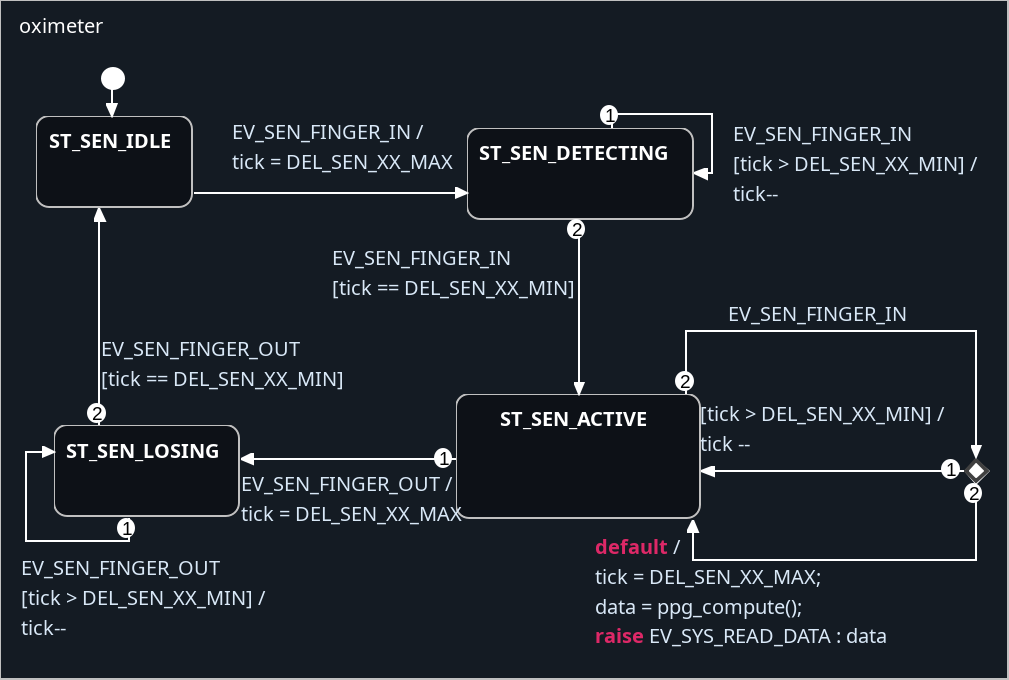
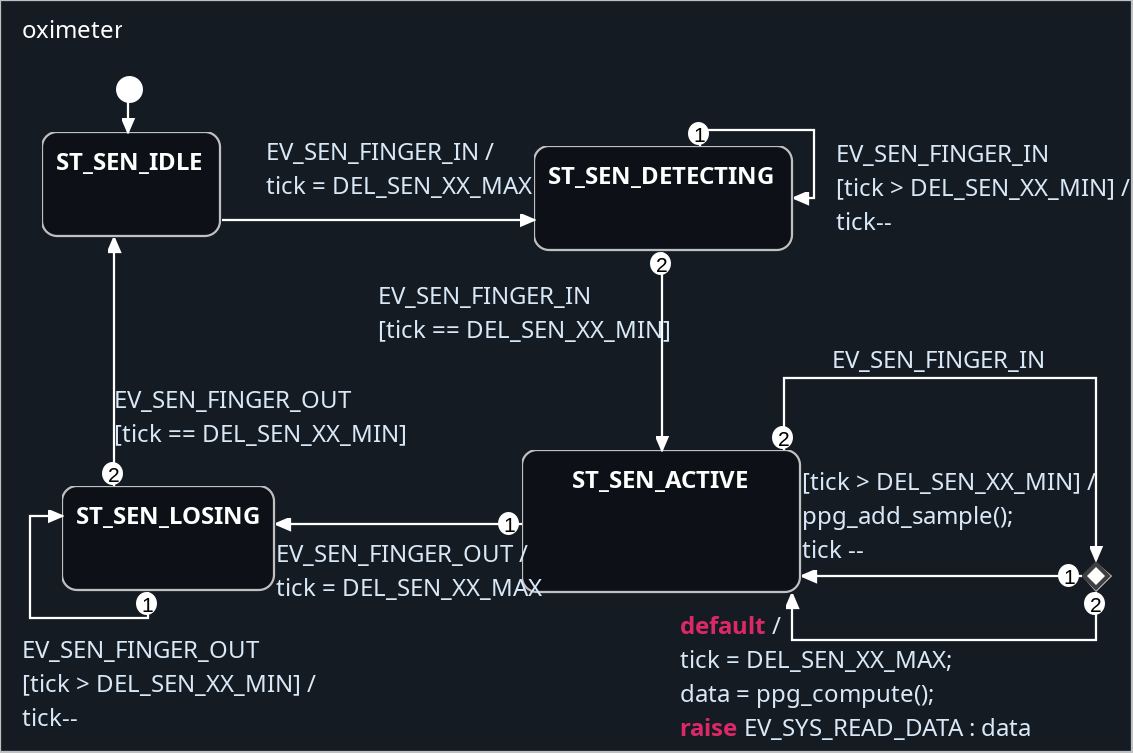
docs: update firmware

diff --git a/informe/main.md b/informe/main.md
@@ -39,7 +39,7 @@ Tomás Musso Carboni
 `tmusso@fi.uba.ar`
 
 Alan Romero
-`alan@fi.uba.ar`
+`alromero@fi.uba.ar`
 
 Santiago Archetti  
 `sarchetti@fi.uba.ar`
@@ -687,9 +687,7 @@ A nivel de implementación, la **Figura 3.4** ilustra la organización de los ar
 
 ### 3.2.2 Módulo Sensor
 
-Este módulo representa un sensor que se comunica con un oxímetro de
-pulso (*MAX30102*) y procesa la señal para obtener los datos en la
-siguiente estructura de datos.
+Este módulo representa un sensor que se comunica con un oxímetro de pulso (*MAX30102*), procesa la señal y guarda los valores obtenidos en la siguiente estructura de datos.
 
 ```C
         typedef struct {
@@ -701,12 +699,6 @@ siguiente estructura de datos.
         } task_sensor_results_dta_t;
 ```
 
-La comunicación se realiza via $I^2C$ y en cada iteración se acceden los
-datos al buffer FIFO del MAX30102 para reconstruir la señal. Una vez
-procesada, cada `DEL_SEN_MAX_TICKS` se accede a la interfaz del sistema
-y se actualiza la estructura de datos, además de activar una variable
-booleana indicando que el valor no ha sido leído.
-
 
 <p align="center">
   <img src="img/statechart_sensor.png" width="50%" alt="Máquina de estados del sensor">
@@ -715,21 +707,25 @@ booleana indicando que el valor no ha sido leído.
   <em>Figura 3.6: Máquina de estados del sensor.</em>
 </p>
 
-Inicialmente el sistema comienza en el estado `ST_SEN_IDLE`, en el cual el sensor se encuentra en resposo esperando que el usuario coloque el dedo sobbre el sensór. Cuando se detecta la presencia del dedo, se genera el evento `EV_SEN_FINGER_IN`, esto provoca la transición al estado `ST_SEN_DETECTING`, en este estado se inicia un tick que permite verificar que la señal del sensor sea estable antes de comenzar a medir. 
+El sistema comienza en el estado `ST_SEN_IDLE`.
+En éste, el sensor se encuentra leyendo datos, y hasta no superar un umbral, se interpreta como la ausencia del dedo en el sensor.
+Cuando el usuario coloca el dedo, la lectura supera el umbral y se genera el evento `EV_SEN_FINGER_IN`.
 
-Mientras el sistema permanece en `ST_SEN_DETECTING`, el temporizador se va decrementando. Si el dedo permanece colocado el tiempo mínimo requerido `DEL_SEN_XX_MIN`, el sistema pasa al estado `ST_SEN_ACTIVE`. En este estado el sensor realiza el procesamiento de la señal PPG con la función `ppg_compute()`. 
+De forma similar al debouncing de un pulsador mecánico, se asegura que el dedo haya estado al menos cierta cantidad de ticks para confirmar que todas las lecturas corresponden a un usuario y no a ruido.
+Para esto, se utilizan los estados intermedios `ST_SEN_DETECTING` y `ST_SEN_LOSING`.
+En estos estados se asigna `DEL_SEN_XX_MAX` a la variable `tick` al entrar.
+Mientras el sistema permanece en `ST_SEN_DETECTING`, el temporizador se va decrementando.
+Si el dedo permanece colocado el tiempo mínimo requerido `DEL_SEN_XX_MIN`, el sistema pasa al estado `ST_SEN_ACTIVE` o `ST_SEN_IDLE` según desde cual transicione.
 
-Si durante el funcionamiento el usuario retira el dedo del sensor, se genera el evento `EV_SEN_FINGER_OUT`, provocando una transición al estado `ST_SEN_LOSING`. Si el dedo permanece fuera del sensor durante un tiempo establecido, el sistema vuelve a `ST_SEN_IDLE`, a la espera de una nueva medición.
+El estado `ST_SEN_ACTIVE` el sensor realiza las lecturas y ejecuta el procesamiento de la señal PPG con la función `ppg_compute()`.
+La comunicación se realiza via $I^2C$ y en cada iteración se acceden los datos al buffer FIFO del MAX30102 para reconstruir la señal.
+Una vez procesada, cada `DEL_SEN_MAX_TICKS` se accede a la interfaz del sistema y se actualiza la estructura de datos.
+Además, activa una variable booleana indicando que el valor no ha sido leído.
+De esta manera, _task_system_ puede hacer polling sin repetir el mismo dato.
 
 ---
 
 ### 3.2.3 Módulo Actuador
-
-Consiste en los indicadores al usuario. Consta de 4 estados. Pueden
-estar prendidos, apagados, parpadeando o emtiendo un pulso. Éstos
-últimos permiten ajustar la frecuencia con la que un led parpadea, o la
-frecuencia de un buzzer.
-
 
 <p align="center">
   <img src="img/statechart_actuator.png" width="45%" alt="Máquina de estados del actuador">
@@ -738,24 +734,45 @@ frecuencia de un buzzer.
   <em>Figura 3.8. Máquina de estados del actuador.</em>
 </p>
 
-La función principal de esta máquina de estados es controlar el comportamiento de los periféricos de salida del sistema (como los indicadores LED y el buzzer), permitiendo operarlos de forma estática (encendido/apagado) o dinámica (parpadeo/pulsos).
+Cada actuador cuenta con un identificador único representado con el siguiente enumerativo.
 
-El sistema comienza por defecto en el estado `ST_ACT_XX_OFF`, lo cual representa que el actuador se encuentra completamente desactivado. Desde este punto, si se recibe el evento `EV_ACT_XX_ON`, la máquina transiciona al estado `ST_ACT_XX_ON`, activando el hardware de forma continua. Para volver a apagarlo, basta con generar el evento `EV_ACT_XX_OFF`, retornando al estado inicial.
+```C
+/* Identifier of Task Actuator */
+typedef enum {
+    ID_LED_BLUETOOTH,
+    ID_LED_KID,
+    ID_LED_ADULT,
+    ID_LED_ALARM,
+    ID_BUZZER
+} task_actuator_id_t;
+```
 
-Además de los estados estáticos, el sistema puede ingresar a un modo intermitente a través del evento `EV_ACT_XX_BLINK`, el cual provoca la transición hacia el estado complejo `ST_ACT_XX_BLINK`. A este estado se puede ingresar tanto desde el actuador apagado como desde el actuador encendido.
+De esta forma _task_actuator_ gestiona todos los actuadores del sistema con salidas simples (prendido, apagado o parpadeando).
+En cada tick, éste itera sobre un arreglo de actuadores y actualiza el estado de cada uno según el evento que haya registrado cada uno.
+Con una interfaz que evita exponer la implementación del conjunto de actuadores, _task_system_ puede asignarle un evento _ON_, _OFF_, o _BLINK_ pasandole el evento y el ID a la función
 
-Dentro de `ST_ACT_XX_BLINK`, el sistema gestiona una sub-máquina con dos sub-estados internos (`ON` y `OFF`). El paso de un sub-estado a otro está regido por un temporizador interno (`tick`). En cada iteración, el temporizador se decrementa continuo (`tick--`). 
+```C
+void put_event_task_actuator(task_actuator_ev_t event, task_actuator_id_t identifier);
+```
 
-Cuando la variable alcanza su límite inferior (`[tick == DEL_BTN_XX_MIN]`), el actuador invierte su estado (pasando de `ON` a `OFF` o viceversa) y el temporizador se recarga automáticamente a su valor superior (`tick = DEL_BTN_XX_MAX`). Este ciclo se repite indefinidamente, generando la frecuencia de parpadeo deseada.
+La función principal de cada actuador individual es controlar el comportamiento de los periféricos de salida del sistema (como los indicadores LED y el buzzer).
 
+El sistema comienza por defecto en el estado `ST_ACT_XX_OFF`, lo cual representa que el actuador se encuentra completamente desactivado.
+Desde este punto, si se recibe el evento `EV_ACT_XX_ON`, la máquina transiciona al estado `ST_ACT_XX_ON`, activando el hardware de forma continua.
+Para volver a apagarlo, basta con generar el evento `EV_ACT_XX_OFF`, retornando al estado inicial.
+
+Además de los estados estáticos, el sistema puede ingresar a un modo intermitente desencadenada por el evento `EV_ACT_XX_BLINK`.
+Para modelar el parpadeo, se utilizan los estados `ST_ACT_BLINK_ON` y `ST_ACT_BLINK_OFF`.
+
+Aunque el diagrama lo representa como un estado compuesto, el código lo modela como estados independientes entre los que se va alternando.
+El paso de un sub-estado a otro está determinado por un temporizador interno (`tick`).
+En cada iteración, el temporizador se decrementa continuo (`tick--`).
+Cuando la variable alcanza su límite inferior (`[tick == DEL_BTN_XX_MIN]`), el actuador invierte su estado (pasando de `ON` a `OFF` o viceversa) y el temporizador se setea automáticamente a su cota superior (`tick = DEL_BTN_XX_MAX`).
+Este ciclo se repite indefinidamente, generando la frecuencia de parpadeo deseada.
 El actuador permanecerá en este ciclo de intermitencia hasta que reciba una orden explícita para detenerse: el evento `EV_ACT_XX_OFF` lo llevará nuevamente al estado de reposo, mientras que `EV_ACT_XX_ON` lo dejará encendido de manera permanente.
 
-### 3.2.4 Módulo de botones
 
-Modela el comportamiento de un pulsador mecanico. Permite filtrar por
-software el ruido durante los cambios de estado del botón
-(_debouncing_). Aunque el botón es mecánico, se puede modelar otras
-entradas digitales con ruido de la misma manera.
+### 3.2.4 Módulo Botones
 
 <p align="center">
   <img src="img/statechart_button.png" width="55%" alt="Máquina de estados de los botones">
@@ -764,31 +781,25 @@ entradas digitales con ruido de la misma manera.
   <em>Figura 3.7: Máquina de estados de los botones.</em>
 </p>
 
-La función principal de esta máquina de estados es detectar de forma segura la presión y liberación de los botones evitando lecturas incorrectas por rebotes mecánicos. 
+La función principal de esta máquina de estados es detectar de forma segura la presión y liberación de los botones evitando lecturas incorrectas por rebotes mecánicos.
 
-El sistema comienza en estado `ST_BTN_XX_UP`, el cual representa la condición en la cual el botón se encuentra sin presionar. Cuando se detecta una transición del botón hacia el estado presionado(`EV_BTN_XX_DOWN`), EL SISTEMA PASA AL ESTADO `ST_BTN_XX_FALLING` e inicia un tick. Dicho estado se utiliza para verificar que la presión del botón sea estable y no corresponda a un rebote. 
+El sistema comienza en estado `ST_BTN_XX_UP`, el cual representa la condición en la cual el botón se encuentra sin presionar.
+Cuando se detecta una transición del botón hacia el estado presionado(`EV_BTN_XX_DOWN`), EL SISTEMA PASA AL ESTADO `ST_BTN_XX_FALLING` e inicia un tick.
+Dicho estado se utiliza para verificar que la presión del botón sea estable y no corresponda a un rebote.
 
-Mientras el sistema permanece en `ST_BTN-XX_FALLING`, el temporizador se decrementa, si continua presionado durante un tiempo mínimo se considera que la presión fue válida y el sistema pasa a `ST_BTN-XX_DOWN`. En ese momento se genera el evento `EV_SYS_BTN_XX_PRESSED`, que es enviado al sistema principal para indicar que el botón fue efectivamente presionado.
+Mientras el sistema permanece en `ST_BTN-XX_FALLING`, el temporizador se decrementa, si continua presionado durante un tiempo mínimo se considera que la presión fue válida y el sistema pasa a `ST_BTN-XX_DOWN`.
+En ese momento se genera el evento `EV_SYS_BTN_XX_PRESSED`, que es enviado al sistema principal para indicar que el botón fue efectivamente presionado.
 
 Cuando el usuario libera el botón (`EV_BTN_XX_UP`), el sistema pasa al estado `ST_BTN_XX_RISING`, donde nuevamente se utiliza el temporizador para confirmar que la liberación del botón sea estable.
 
 Si el botón permanece liberado durante el tiempo mínimo establecido, el sistema retorna al estado `ST_BTN_XX_UP` y se genera el evento `EV_SYS_BTN_XX_RELEASED`, indicando al sistema que el botón fue liberado correctamente.
 
+<!-- Esta forma de filtrar el ruido producido por el funcionamiento mecánico del pulsador, puede ser usado en otro tipo de entradas como el pin STATE del HM10, que indica si un dispositivo ya está conectado a bluetooth -->
+
 ---
 
 
-### 3.2.5 Módulo de sistema
-
-Es la tarea principal encargada de recibir las entradas desde los
-botones y sensores y producir los efectos correspondientes en los otros
-módulos. Como es relevante no perder ninguna entrada, cuenta con una
-interfaz que gestiona una cola de eventos. Ésta, además, es donde el
-sensor guarda los datos que toma cada cierta cantidad de ticks. En cada
-iteración, el sistema pregunta a la cola si hay algun evento disponible
-y si hay algun dato para enviar. En caso de haber un dato disponible del
-sensor, lo envía por UART al HM10, que se encarga de transmitirlo por
-bluetooth, y se muestra por el display
-
+### 3.2.5 Módulo Sistema
 
 <p align="center">
   <img src="img/statechart_system.png" width="50%" alt="Máquina de estados del sistema">
@@ -797,17 +808,43 @@ bluetooth, y se muestra por el display
   <em>Figura 3.5: Máquina de estados del sistema.</em>
 </p>
 
-Como se puede observar en la maquina de estados del sistema, el mismo se encarga de controlar el funcionamiento general del dispositivo. Se gestionan el modo modo de funcionamiento como también la lectura de sensores y encendido o apagado de alarmas. 
+Se observa en la figura 3.5, que _task_system_ se encarga de controlar el funcionamiento general del dispositivo.
+Gestiona el modo de funcionamiento, la lectura de sensores, la persentación de la información, y el encendido o apagado de la alarma.
 
-Cuenta con dos modos de funcionamiento: `KID` y `ADULT`, los cuales se seleccionan mediante el evento `AV_SYS_BTN_MODE_PRESSED`, correspondiente a la presión del botón de modo. Por default el sistema se inicializa en modo `KID`. El cambio de modo viene acompañado por el encendido del led correspondiente (`ID_LED_KID` O `ID_LED_ADULT` según el caso) asi como también del seteo de los parámetros correspondientes a ese modo. 
+Cuenta con dos modos de funcionamiento: `KID` y `ADULT`, entre los cuales se alterna mediante un pulsador que desencadena el evento `EV_SYS_BTN_MODE_PRESSED`.
+Por defecto el sistema se inicializa en modo `KID`.
+El cambio de modo viene acompañado por el encendido del led correspondiente (`ID_LED_KID` O `ID_LED_ADULT` según el caso) asi como también del seteo de los parámetros correspondientes a ese modo.
 
-Mediante el evento `EV_SYS_SEN_READ` se realiza la lectura de los sensores. Los datos obtenidos se muestran por display y además se envían a través de bluetoth.
+Para poder gestionar la entrada de los botones sin perderse ninguna, cuenta con una interfaz conformada por una cola de eventos.
+En cada iteración, _task_system_ pregunta si hay un evento.
+Si no lo hay entonces no hace nada.
+Por el contrario, si detecta un evento de botón presionado lo redirige al actuador.
 
-A partir de los datos medidos, el sistema evalúa distintas condiciones de riesgo. Si se detecta  una situación de apnea, se activa el buzzer y el led de alarma. Asimismo, si alguno de los parametros fisiologicos se encuantra fuera de los valores normales el sistema también enciende el LED de alarma para advertir al usuario. 
+Si el evento es `EV_SYS_SEN_READ` se realiza la lectura de los sensores.
+Los datos obtenidos se muestran por pantalla y se envían por _UART_ al módulo bluetooth.
+A partir de los parametros correspondientes al modo seleccionado, y los datos medidos, el sistema evalúa distintas condiciones de riesgo.
+Si se detecta que alguno de los parametros fisiologicos se encuentra fuera de los valores normales el sistema también enciende el LED de alarma para advertir al usuario.
+Además, si se determina que ocurre una situación de apnea, se activa el buzzer.
 
 Finalmente, el usuario puede desactivar manualmente la alarma mediante el botón correspondiente, generando el evento `EV_SYS_BTN_ALARM_PRESSED`, el cual apaga el LED de alarma y el Buzzer.
 
+### 3.2.6 Comm (Bluetooth)
 
+Modela el comportamiento de un dispositivo que mantiene una conexión bluetooth con una aplicación móvil.
+Se inicializa pasándole como parámetro la interfaz `UART` a utilizar.
+Este módulo abstrae del uso de la _HAL_, la transmisión y recepción de datos con un dispositivo móvil por medio del HM10.
+
+<!-- |Nombre | Tipo | Descripción | -->
+<!-- | --- | --- | ---| -->
+<!-- | hm10_init |   -->
+<!---->
+
+
+### 3.2.7 Display
+
+Modela el uso de un display LCD de 16x2 en la modalidad de 4 pines.
+Permite posicionar un cursor en cualquier parte de la pantalla y escribir una cadenas de texto.
+Una función permite formatear la estructura de datos del sensor obtenidos por el sistema al tamaño del LCD utilizado en el proyecto.
 
 ---
 
